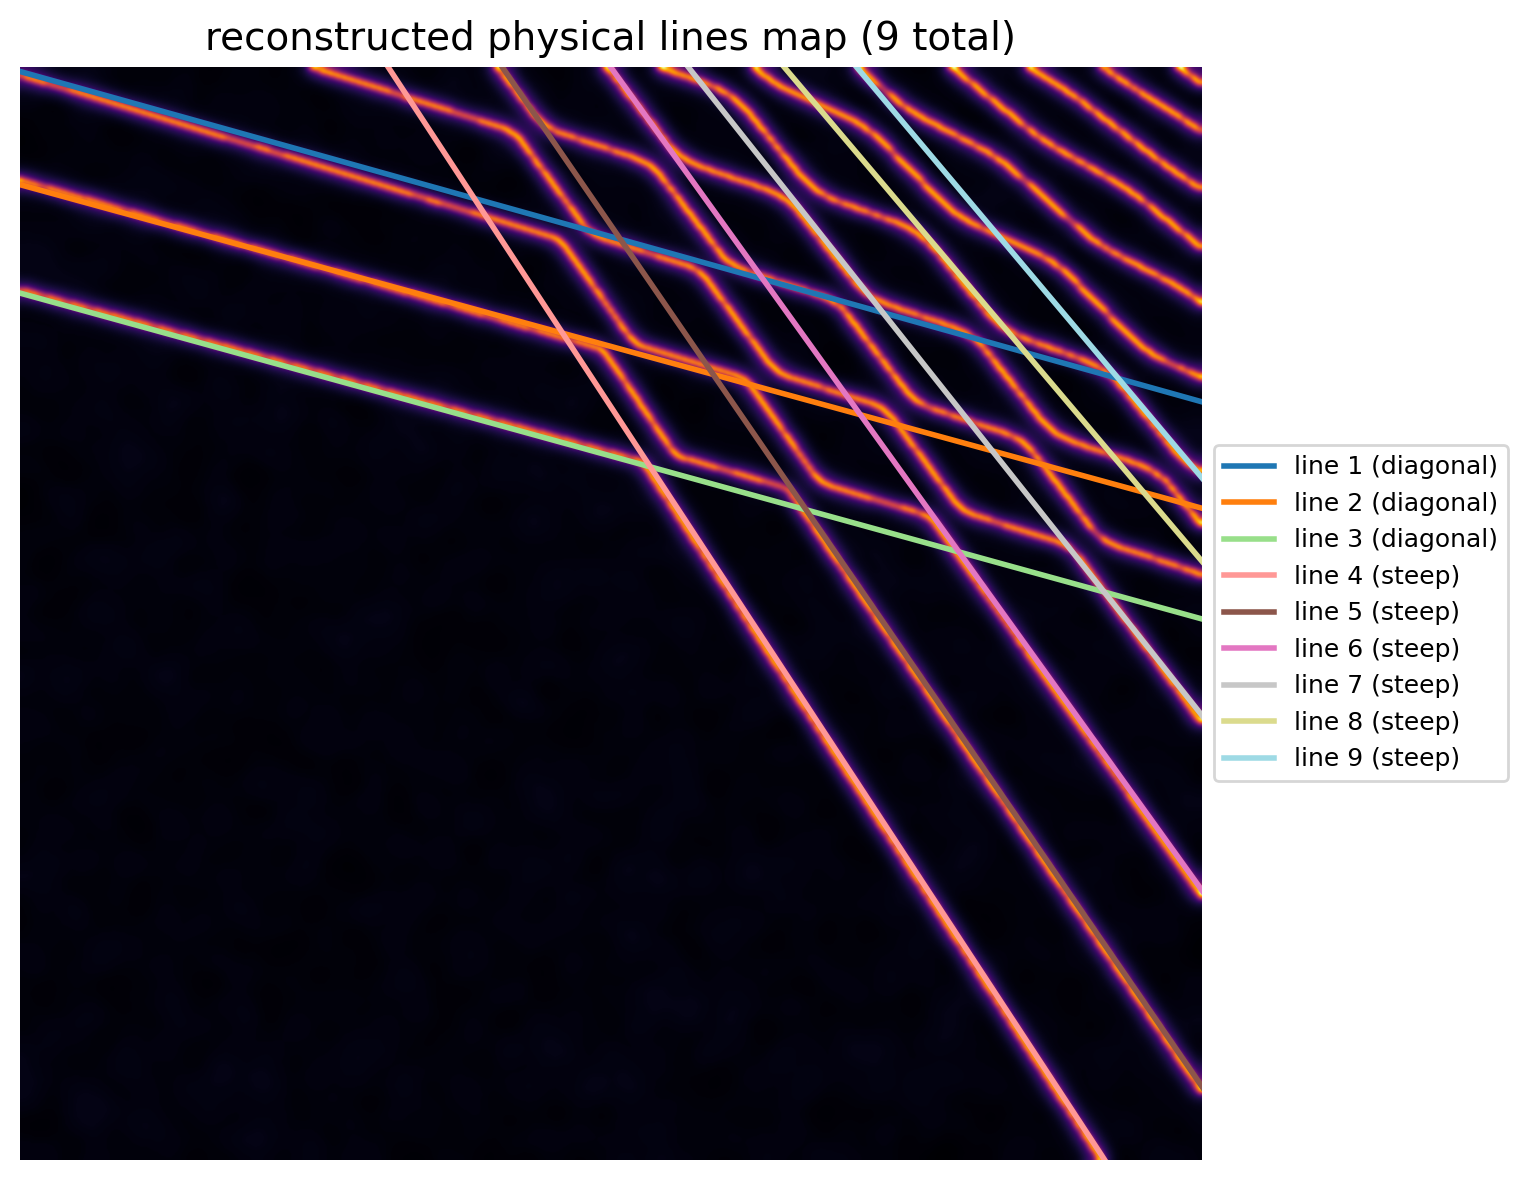
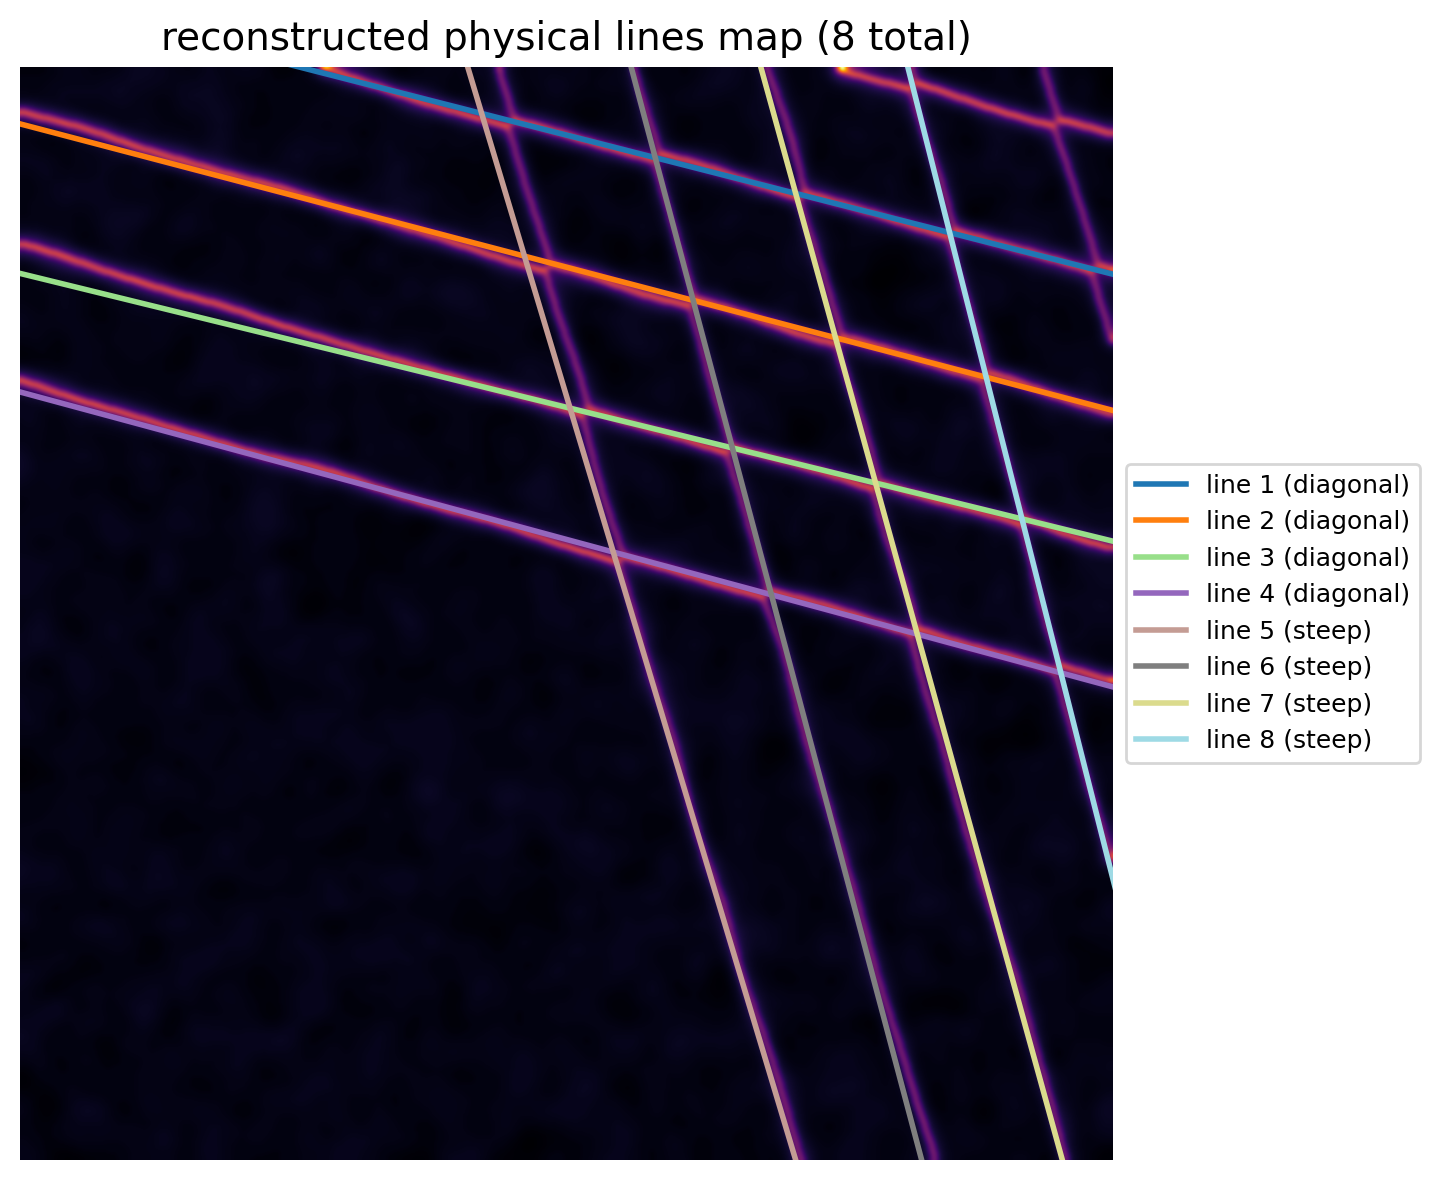
changing to 500

Changed region(s): [[0.0, 0.0, 1.0, 1.0]]

diff --git a/2D/2D_extraction.py b/2D/2D_extraction.py
@@ -20,7 +20,7 @@ if len(sys.argv) > 1:
     img_basename = os.path.splitext(os.path.basename(input_path))[0]
     out_folder = os.path.join("testing_2D", "results", img_basename)
 else:
-    input_path = os.path.join("CSD_generated_images", "csd_clean_simCAT.png")
+    input_path = os.path.join("CSD_generated_images", "csd_clean.png")
     out_folder = "2D"
 
 os.makedirs(out_folder, exist_ok=True)
@@ -272,8 +272,8 @@ def group_and_fit(segments, family_type, is_steep=False, center_val=250):
             ys.extend([y0, y1])
             total_length += np.hypot(x1 - x0, y1 - y0)
             
-        # keep the aggressive 200 pixel filter
-        if total_length < 200:
+        # changed to 500
+        if total_length < 500:
             continue
             
         if is_steep:

diff --git a/1D/virtual_gates.py b/1D/virtual_gates.py
@@ -17,7 +17,7 @@ if len(sys.argv) > 1:
     out_folder = os.path.join(base_dir, "Virtual_Gates")
 else:
     # Standalone mode: main 1D folder
-    img_path = os.path.join("CSD_generated_images", "csd_clean_simCAT.png")
+    img_path = os.path.join("CSD_generated_images", "csd_clean.png")
     json_path = os.path.join("1D", "extracted_lines.json")
     out_folder = os.path.join("1D", "Virtual_Gates")
 
